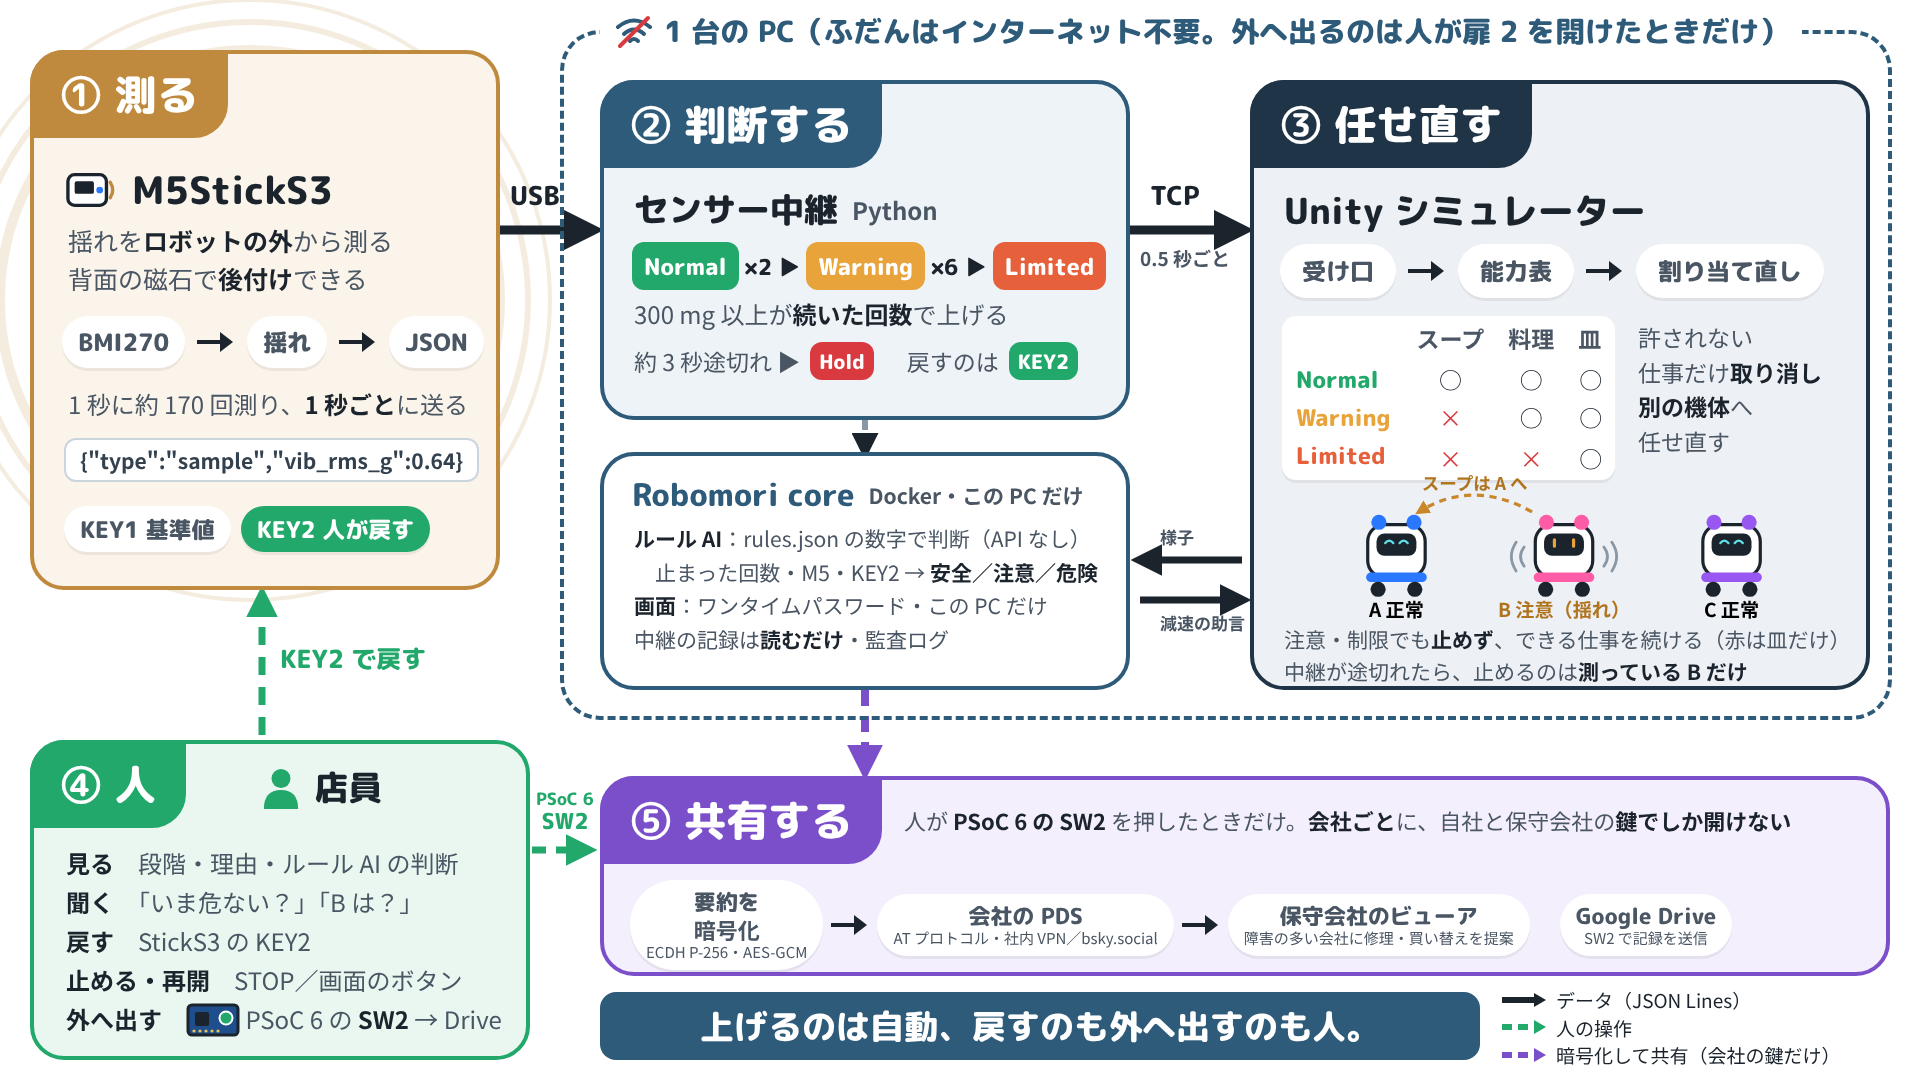
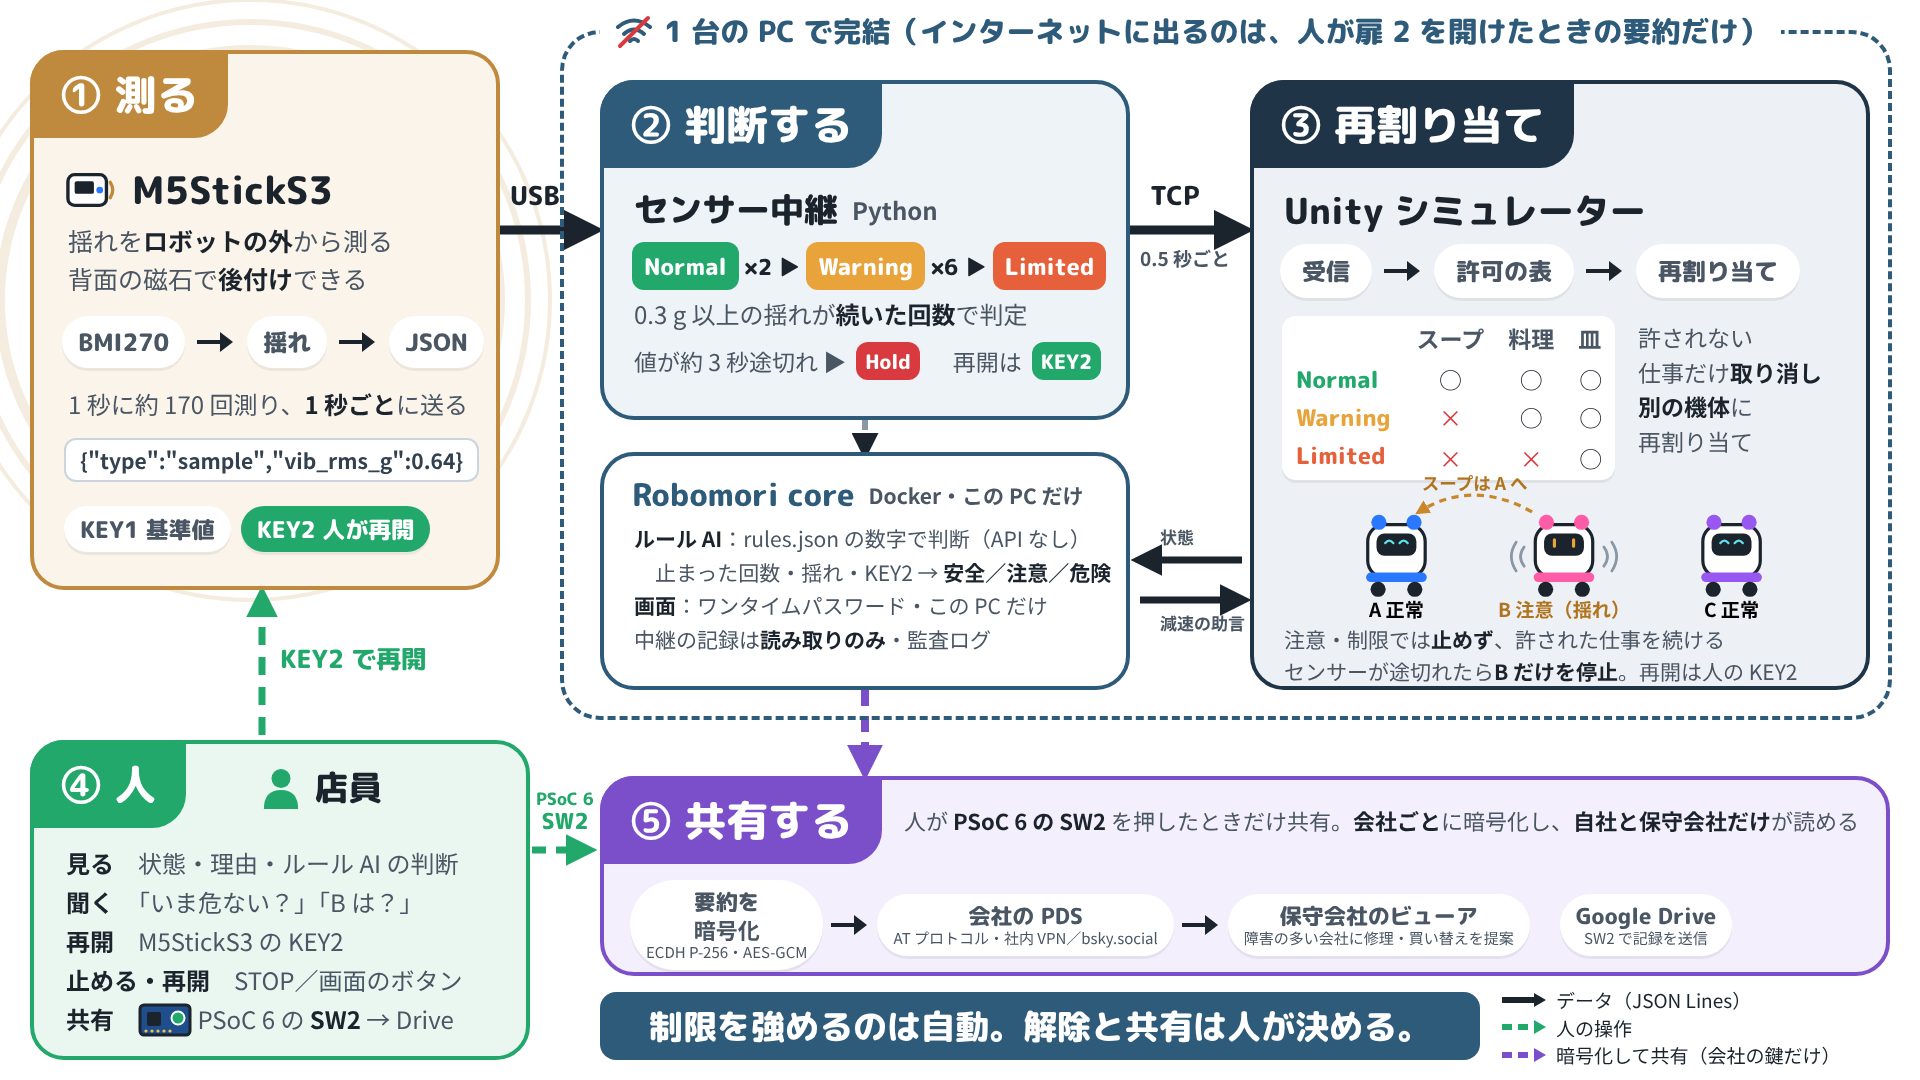
docs: redraw the system model in the README's plain words
The diagram now uses the README's terms (再割り当て, 許可の表, 0.3 g,
再開, 共有) and the banner 制限を強めるのは自動。解除と共有は人が決める。
The note under the robots matches this repo's relay: Warning and
Limited keep the robot working, and a sensor gap stops robot B.

Claude-Session: https://claude.ai/code/session_01N6gh5dzHENN2nwGuMdfD15

diff --git a/docs/images/system-model.html b/docs/images/system-model.html
@@ -58,7 +58,7 @@ body{width:1920px;height:1080px;background:#fff;font-family:'Noto Sans JP',sans-
 <div class="abs" style="left:560px;top:30px;width:1332px;height:690px;border:4px dashed #2E5B7A;border-radius:40px;z-index:0"></div>
 <div class="abs" style="left:600px;top:10px;background:#fff;padding:0 14px;font-family:'M PLUS Rounded 1c';font-size:29px;color:#2E5B7A;display:flex;align-items:center;gap:10px;z-index:2">
   <svg width="40" height="34" viewBox="0 0 40 34"><g fill="none" stroke="#2E5B7A" stroke-width="4" stroke-linecap="round"><path d="M4 12 Q20 -1 36 12"/><path d="M10 19 Q20 10 30 19"/><path d="M16 26 Q20 22 24 26"/><path d="M6 31 L34 3" stroke="#D93A3F"/></g></svg>
-  1 台の PC（ふだんはインターネット不要。外へ出るのは人が扉 2 を開けたときだけ）
+  1 台の PC で完結（インターネットに出るのは、人が扉 2 を開けたときの要約だけ）
 </div>
 
 <!-- ① measure -->
@@ -76,7 +76,7 @@ body{width:1920px;height:1080px;background:#fff;font-family:'Noto Sans JP',sans-
   <div class="code" style="left:30px;top:384px;font-size:21px">{"type":"sample","vib_rms_g":0.64}</div>
   <div class="row" style="left:30px;top:452px">
     <span class="pill" style="font-size:23px;padding:6px 16px">KEY1 基準値</span>
-    <span class="pill" style="font-size:23px;padding:6px 16px;background:var(--green);color:#fff">KEY2 人が戻す</span>
+    <span class="pill" style="font-size:23px;padding:6px 16px;background:var(--green);color:#fff">KEY2 人が再開</span>
   </div>
 </div>
 <div class="lbl" style="left:510px;top:176px;font-size:26px">USB</div>
@@ -90,8 +90,8 @@ body{width:1920px;height:1080px;background:#fff;font-family:'Noto Sans JP',sans-
     <span class="st" style="background:var(--warn)">Warning</span><span class="n">×6 ▶</span>
     <span class="st" style="background:var(--lim)">Limited</span>
   </div>
-  <div class="t" style="left:30px;top:212px;font-size:24px">300 mg 以上が<b>続いた回数</b>で上げる</div>
-  <div class="row" style="left:30px;top:258px;font-size:23px">約 3 秒途切れ ▶ <span class="st" style="background:var(--hold);font-size:20px;padding:4px 9px">Hold</span>　戻すのは <span class="st" style="background:var(--green);font-size:20px;padding:4px 9px">KEY2</span></div>
+  <div class="t" style="left:30px;top:212px;font-size:24px">0.3 g 以上の揺れが<b>続いた回数</b>で判定</div>
+  <div class="row" style="left:30px;top:258px;font-size:23px">値が約 3 秒途切れ ▶ <span class="st" style="background:var(--hold);font-size:20px;padding:4px 9px">Hold</span>　再開は <span class="st" style="background:var(--green);font-size:20px;padding:4px 9px">KEY2</span></div>
 </div>
 <div class="lbl" style="left:1150px;top:176px;font-size:26px">TCP</div>
 <div class="lbl" style="left:1140px;top:244px;font-size:19px;font-family:'Noto Sans JP';font-weight:700;color:var(--sub)">0.5 秒ごと</div>
@@ -99,17 +99,17 @@ body{width:1920px;height:1080px;background:#fff;font-family:'Noto Sans JP',sans-
 <!-- ② judge: core -->
 <div class="box" style="left:600px;top:452px;width:530px;height:238px;border-color:var(--navy);background:#fff">
   <div class="title" style="left:28px;top:16px;font-size:31px;color:var(--navy)">Robomori core <span style="font-family:'Noto Sans JP';font-weight:700;font-size:21px;color:var(--sub)">Docker・この PC だけ</span></div>
-  <div class="t" style="left:30px;top:66px;font-size:21px;line-height:1.6"><b>ルール AI</b>：rules.json の数字で判断（API なし）<br>　止まった回数・M5・KEY2 → <b>安全／注意／危険</b><br><b>画面</b>：ワンタイムパスワード・この PC だけ<br>中継の記録は<b>読むだけ</b>・監査ログ</div>
+  <div class="t" style="left:30px;top:66px;font-size:21px;line-height:1.6"><b>ルール AI</b>：rules.json の数字で判断（API なし）<br>　止まった回数・揺れ・KEY2 → <b>安全／注意／危険</b><br><b>画面</b>：ワンタイムパスワード・この PC だけ<br>中継の記録は<b>読み取りのみ</b>・監査ログ</div>
 </div>
-<div class="lbl" style="left:1160px;top:524px;font-size:17px;font-family:'Noto Sans JP';font-weight:700;color:var(--sub)">様子</div>
+<div class="lbl" style="left:1160px;top:524px;font-size:17px;font-family:'Noto Sans JP';font-weight:700;color:var(--sub)">状態</div>
 <div class="lbl" style="left:1160px;top:610px;font-size:17px;font-family:'Noto Sans JP';font-weight:700;color:var(--sub)">減速の助言</div>
 
 <!-- ③ reassign -->
 <div class="box" style="left:1250px;top:80px;width:620px;height:610px;border-color:var(--dark);background:var(--dark-bg)">
-  <div class="hdr" style="background:var(--dark)">③ 任せ直す</div>
+  <div class="hdr" style="background:var(--dark)">③ 再割り当て</div>
   <div class="title" style="left:30px;top:100px;font-size:36px">Unity シミュレーター</div>
   <div class="row" style="left:26px;top:160px">
-    <span class="pill" style="font-size:24px">受け口</span><span class="ar"></span><span class="pill" style="font-size:24px">能力表</span><span class="ar"></span><span class="pill" style="font-size:24px">割り当て直し</span>
+    <span class="pill" style="font-size:24px">受信</span><span class="ar"></span><span class="pill" style="font-size:24px">許可の表</span><span class="ar"></span><span class="pill" style="font-size:24px">再割り当て</span>
   </div>
   <table class="abs" style="left:28px;top:232px;border-collapse:separate;border-spacing:0;font-size:23px;background:#fff;border-radius:14px;box-shadow:0 3px 0 rgba(0,0,0,.06)">
     <tr style="font-weight:700;color:var(--sub)"><td style="padding:5px 14px"></td><td style="padding:5px 12px">スープ</td><td style="padding:5px 12px">料理</td><td style="padding:5px 14px 5px 12px">皿</td></tr>
@@ -117,7 +117,7 @@ body{width:1920px;height:1080px;background:#fff;font-family:'Noto Sans JP',sans-
     <tr><td style="padding:2px 14px;font-family:'M PLUS Rounded 1c';color:var(--warn)">Warning</td><td align="center" style="color:var(--hold)">×</td><td align="center">○</td><td align="center">○</td></tr>
     <tr><td style="padding:2px 14px 8px;font-family:'M PLUS Rounded 1c';color:var(--lim)">Limited</td><td align="center" style="color:var(--hold)">×</td><td align="center" style="color:var(--hold)">×</td><td align="center">○</td></tr>
   </table>
-  <div class="t" style="left:384px;top:236px;font-size:23px;line-height:1.5">許されない<br>仕事だけ<b>取り消し</b><br><b>別の機体</b>へ<br>任せ直す</div>
+  <div class="t" style="left:384px;top:236px;font-size:23px;line-height:1.5">許されない<br>仕事だけ<b>取り消し</b><br><b>別の機体</b>に<br>再割り当て</div>
   <svg class="abs" style="left:40px;top:388px" width="540" height="150" viewBox="0 0 580 188">
     <defs>
       <g id="bot"><rect x="-36" y="-44" width="72" height="66" rx="21" fill="#fff" stroke="#1B232C" stroke-width="4"/><rect x="-25" y="-33" width="50" height="28" rx="10" fill="#1B232C"/><rect x="-38" y="16" width="76" height="12" rx="6" fill="currentColor"/><circle cx="-23" cy="37" r="9.5" fill="#1B232C"/><circle cx="23" cy="37" r="9.5" fill="#1B232C"/><circle cx="-22" cy="-47" r="9.5" fill="currentColor"/><circle cx="22" cy="-47" r="9.5" fill="currentColor"/></g>
@@ -133,7 +133,7 @@ body{width:1920px;height:1080px;background:#fff;font-family:'Noto Sans JP',sans-
     <text x="290" y="182" font-family="M PLUS Rounded 1c" font-weight="800" font-size="24" text-anchor="middle" fill="#B0741E">B 注意（揺れ）</text>
     <text x="500" y="182" font-family="M PLUS Rounded 1c" font-weight="800" font-size="24" text-anchor="middle">C 正常</text>
   </svg>
-  <div class="t" style="left:30px;top:540px;font-size:21px;line-height:1.5">注意・制限でも<b>止めず</b>、できる仕事を続ける（赤は皿だけ）<br>中継が途切れたら、止めるのは<b>測っている B だけ</b></div>
+  <div class="t" style="left:30px;top:540px;font-size:21px;line-height:1.5">注意・制限では<b>止めず</b>、許された仕事を続ける<br>センサーが途切れたら<b>B だけを停止</b>。再開は人の KEY2</div>
 </div>
 
 <!-- ④ human -->
@@ -142,15 +142,15 @@ body{width:1920px;height:1080px;background:#fff;font-family:'Noto Sans JP',sans-
   <div class="title" style="left:228px;top:18px;font-size:34px">
     <svg width="38" height="42" viewBox="0 0 40 44"><circle cx="20" cy="12" r="10" fill="#22A86B"/><path d="M2 44 q0 -20 18 -20 q18 0 18 20z" fill="#22A86B"/></svg>店員
   </div>
-  <div class="t" style="left:32px;top:100px;font-size:24px;line-height:1.62"><b>見る</b>　段階・理由・ルール AI の判断<br><b>聞く</b>　「いま危ない？」「B は？」<br><b>戻す</b>　StickS3 の KEY2<br><b>止める・再開</b>　STOP／画面のボタン<br><b>外へ出す</b>　<svg width="54" height="36" viewBox="0 0 54 36" style="vertical-align:-9px"><rect x="2" y="3" width="50" height="30" rx="4" fill="#1F4E8C" stroke="#1B232C" stroke-width="3"/><rect x="9" y="10" width="14" height="14" rx="2" fill="#1B232C"/><g fill="#E8C35A"><circle cx="8" cy="29" r="1.6"/><circle cx="14" cy="29" r="1.6"/><circle cx="20" cy="29" r="1.6"/><circle cx="26" cy="29" r="1.6"/><circle cx="32" cy="29" r="1.6"/></g><circle cx="40" cy="16" r="6.5" fill="#22A86B" stroke="#fff" stroke-width="2"/></svg> PSoC 6 の <b>SW2</b> → Drive</div>
+  <div class="t" style="left:32px;top:100px;font-size:24px;line-height:1.62"><b>見る</b>　状態・理由・ルール AI の判断<br><b>聞く</b>　「いま危ない？」「B は？」<br><b>再開</b>　M5StickS3 の KEY2<br><b>止める・再開</b>　STOP／画面のボタン<br><b>共有</b>　<svg width="54" height="36" viewBox="0 0 54 36" style="vertical-align:-9px"><rect x="2" y="3" width="50" height="30" rx="4" fill="#1F4E8C" stroke="#1B232C" stroke-width="3"/><rect x="9" y="10" width="14" height="14" rx="2" fill="#1B232C"/><g fill="#E8C35A"><circle cx="8" cy="29" r="1.6"/><circle cx="14" cy="29" r="1.6"/><circle cx="20" cy="29" r="1.6"/><circle cx="26" cy="29" r="1.6"/><circle cx="32" cy="29" r="1.6"/></g><circle cx="40" cy="16" r="6.5" fill="#22A86B" stroke="#fff" stroke-width="2"/></svg> PSoC 6 の <b>SW2</b> → Drive</div>
 </div>
-<div class="lbl" style="left:280px;top:640px;font-size:25px;color:#22A86B">KEY2 で戻す</div>
+<div class="lbl" style="left:280px;top:640px;font-size:25px;color:#22A86B">KEY2 で再開</div>
 <div class="lbl" style="left:536px;top:790px;font-size:17px;line-height:1.1;color:#22A86B;text-align:center">PSoC 6<br><span style="font-size:22px">SW2</span></div>
 
 <!-- ⑤ share -->
 <div class="box" style="left:600px;top:776px;width:1290px;height:200px;border-color:#7B4FC9;background:#F4EFFC">
   <div class="hdr" style="background:#7B4FC9">⑤ 共有する</div>
-  <div class="t" style="left:300px;top:24px;font-size:22px">人が <b>PSoC 6 の SW2</b> を押したときだけ。<b>会社ごと</b>に、自社と保守会社の<b>鍵でしか開けない</b></div>
+  <div class="t" style="left:300px;top:24px;font-size:22px">人が <b>PSoC 6 の SW2</b> を押したときだけ共有。<b>会社ごと</b>に暗号化し、<b>自社と保守会社だけ</b>が読める</div>
   <div class="row" style="left:26px;top:100px;gap:6px">
     <span class="pill" style="font-size:22px;padding:8px 16px;flex-direction:column;line-height:1.25">要約を<b style="font-family:'Noto Sans JP'">暗号化</b><span style="font-size:15px;color:var(--sub);font-family:'Noto Sans JP'">ECDH P-256・AES-GCM</span></span><span class="ar"></span>
     <span class="pill" style="font-size:22px;padding:8px 16px;flex-direction:column;line-height:1.25">会社の PDS<span style="font-size:15px;color:var(--sub);font-family:'Noto Sans JP'">AT プロトコル・社内 VPN／bsky.social</span></span><span class="ar"></span>
@@ -161,7 +161,7 @@ body{width:1920px;height:1080px;background:#fff;font-family:'Noto Sans JP',sans-
 </div>
 
 <!-- slogan -->
-<div class="abs" style="left:600px;top:992px;width:880px;height:68px;background:var(--navy);border-radius:16px;color:#fff;font-family:'M PLUS Rounded 1c';font-size:34px;display:flex;align-items:center;justify-content:center;z-index:1">上げるのは自動、戻すのも外へ出すのも人。</div>
+<div class="abs" style="left:600px;top:992px;width:880px;height:68px;background:var(--navy);border-radius:16px;color:#fff;font-family:'M PLUS Rounded 1c';font-size:34px;display:flex;align-items:center;justify-content:center;z-index:1">制限を強めるのは自動。解除と共有は人が決める。</div>
 
 <!-- legend -->
 <div class="abs" style="left:1500px;top:986px;width:400px;height:90px;font-size:19px;line-height:1.45;z-index:1;white-space:nowrap">
